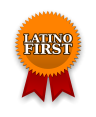
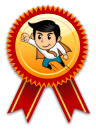
[#143980741] Updated seal image

diff --git a/css/credit-cards-common.css b/css/credit-cards-common.css
@@ -51,10 +51,10 @@ a.btn {
 
 .card-seal {
   background: url('/img/seal.png') no-repeat;
-  height: 117px;
-  margin-top: 0px;
+  height: 131px;
+  margin-top: -15px !important;
   position: absolute;
-  right: 5px;
+  right: 15px;
   width: 96px;
   z-index: 1000;
 }
@@ -89,7 +89,7 @@ a.btn {
 @media (max-width: 1200px) {
   .card-seal {
     background: url('/img/seal_small.png') no-repeat;
-    height: 41px;
+    height: 46px;
     right: 30px;
     width: 32px;
   }
